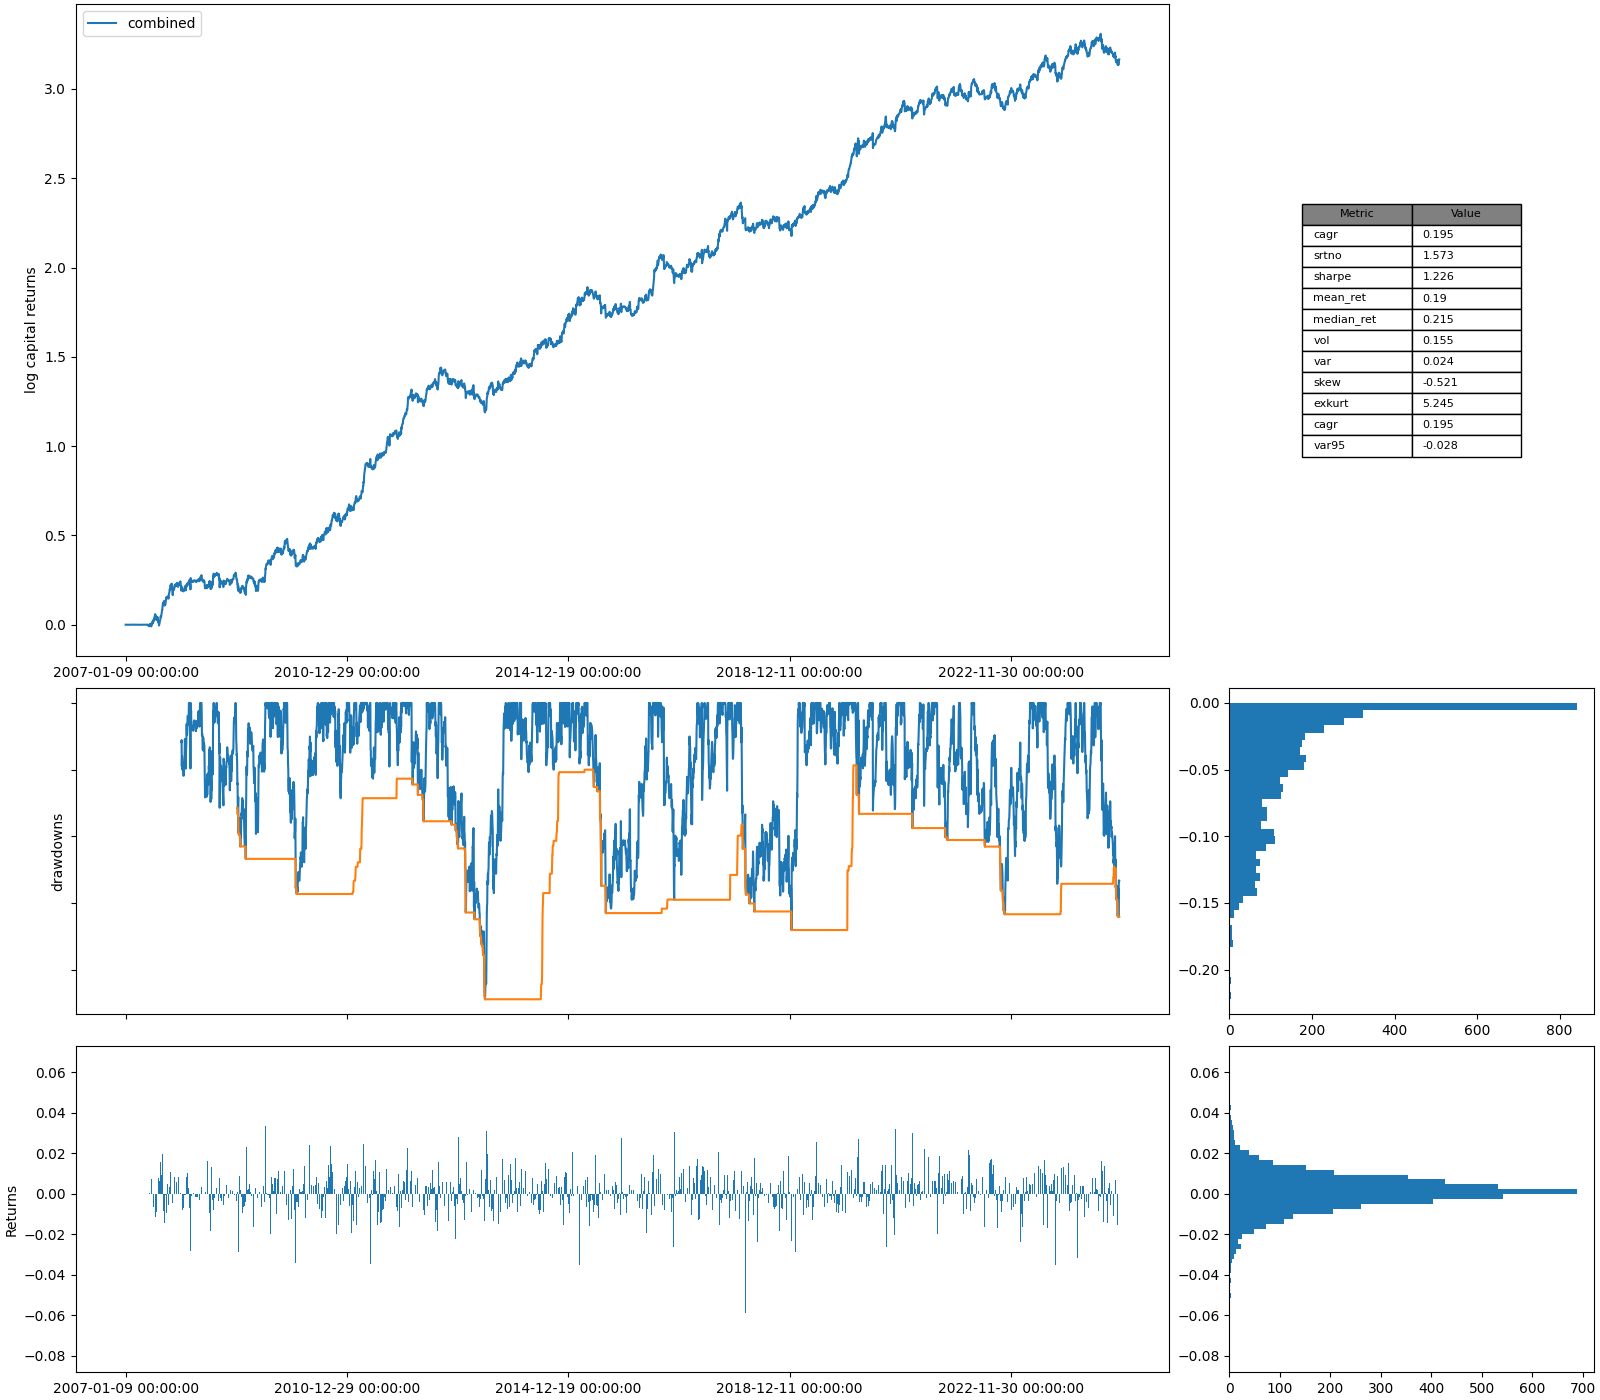
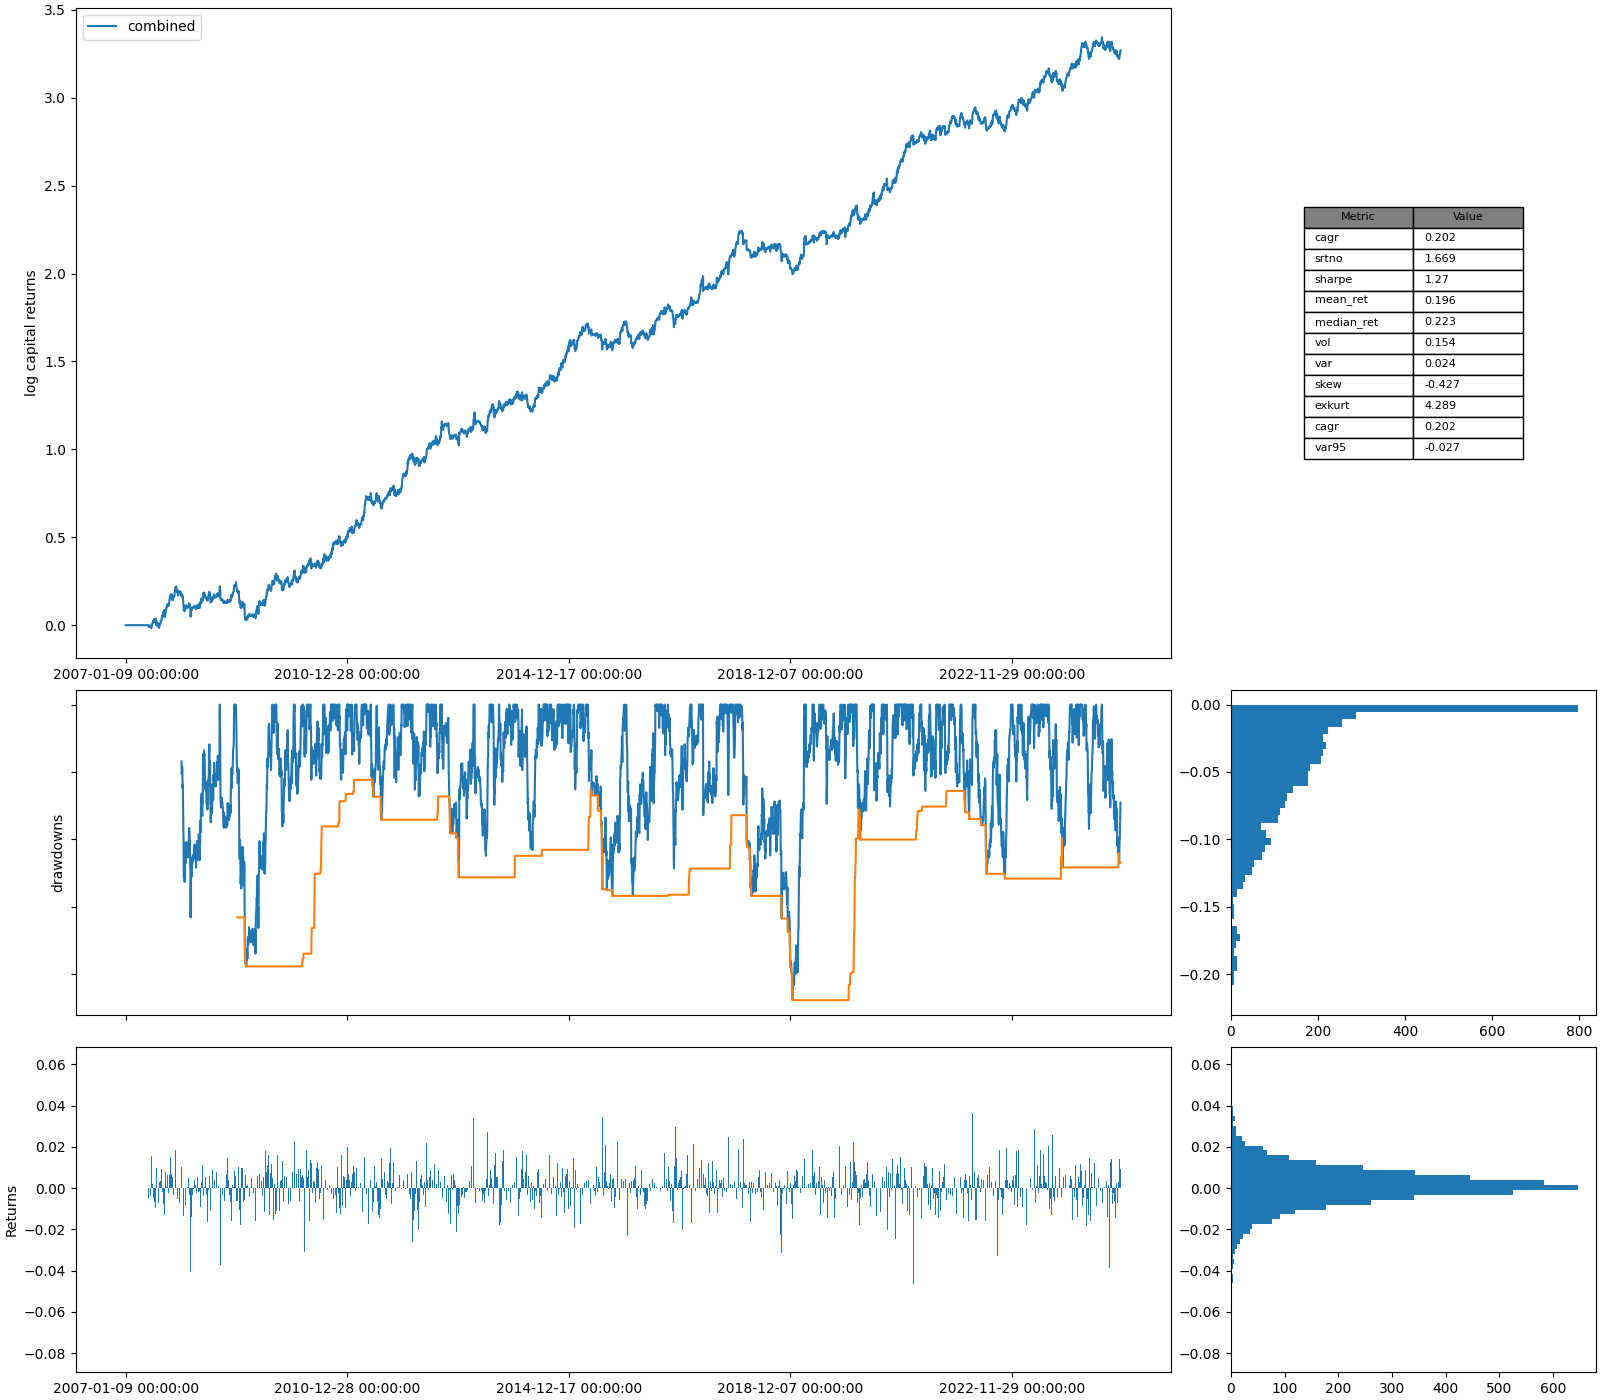
update on tickers on strat and portofolio opt strat

diff --git a/backtester/engine/functions/portfolio_strategies.py b/backtester/engine/functions/portfolio_strategies.py
@@ -8,31 +8,31 @@ from hmmlearn.hmm import GaussianHMM
 class PositioningStrategy(ABC):
     @abstractmethod
     def get_strat_positions(
-        self,
+       self,
         forecasts: np.ndarray,
-        eligibles_row: np.ndarray,
         capitals: float,
         strat_scalar: float,
         vol_row: np.ndarray,
-        close_row: np.ndarray
+        close_row: np.ndarray,
+        vol_target: float,
+        idx: int,
+        **kwargs
     ) -> np.ndarray:
         pass
 
 class VolatilityTargetingStrategy(PositioningStrategy):
     def get_strat_positions(
         self,
-        idx: int,
         forecasts: np.ndarray,
-        eligibles_row: np.ndarray,
         capitals: float,
         strat_scalar: float,
         vol_row: np.ndarray,
         close_row: np.ndarray,
         vol_target: float,
-        max_leverage: float,
-        min_leverage: float,
-        rets_df: dict[str, pd.DataFrame]
+        idx: int,
+        **kwargs
     ) -> np.ndarray:
+        max_leverage, min_leverage = kwargs["max_leverage"], kwargs["min_leverage"]
         forecast_chips = np.sum(np.abs(forecasts))
 
         if forecast_chips == 0:
@@ -53,14 +53,13 @@ class MeanVarianceStrategy(PositioningStrategy):
     def get_strat_positions(
         self,
         forecasts: np.ndarray,
-        eligibles_row: np.ndarray,
         capitals: float,
         strat_scalar: float,
         vol_row: np.ndarray,
         close_row: np.ndarray,
         vol_target: float,
-        max_leverage: float,
-        min_leverage: float
+        idx: int,
+        **kwargs
     ) -> np.ndarray:
         # Placeholder: Implement mean-variance optimization
         expected_returns = forecasts
@@ -79,26 +78,25 @@ class hmmMeanVarianceStrategy(PositioningStrategy):
     SEED = np.random.seed(1)
 
     def get_strat_positions(
-        self, 
-        idx: int,
-        forecasts: np.ndarray, 
-        eligibles_row: np.ndarray, 
-        capitals: float, 
-        strat_scalar: float, 
-        vol_row: np.ndarray, 
+        self,
+        forecasts: np.ndarray,
+        capitals: float,
+        strat_scalar: float,
+        vol_row: np.ndarray,
         close_row: np.ndarray,
         vol_target: float,
-        max_leverage: float,
-        min_leverage: float,
-        rets_df: dict[str, pd.DataFrame]
+        idx: int,
+        **kwargs
     ) -> np.ndarray:
+        retdf, max_leverage, trade_frequency = kwargs["retdf"], kwargs["max_leverage"], kwargs["trade_frequency"]
         if idx == 0:
-            train_rets, self.rets = self.get_rets(rets_df=rets_df)
-            self.model = self.train_hmm(train_rets=train_rets)
+            train_ret, self.ret = self.get_rets(retdf=retdf,trade_frequency=trade_frequency)
+            self.model = self.train_hmm(train_ret=train_ret)
             return np.zeros(len(forecasts))
-        state = self.predict_states(model=self.model, rets=self.rets[(idx - 1):idx,:])
-        state_covar = self.model.covars_[1-state]
-        state_mean = self.model.means_[1-state]
+        
+        state = self.predict_states(model=self.model, ret=self.ret[(idx - 1):idx,:])
+        state_covar = self.model.covars_[state]
+        state_mean = self.model.means_[state]
 
         forecast_chips = np.sum(np.abs(forecasts))
         expected_returns = state_mean * (forecasts / forecast_chips)
@@ -124,19 +122,22 @@ class hmmMeanVarianceStrategy(PositioningStrategy):
             / (vol_row * close_row)
         return np.floor(positions)
     
-    def train_hmm(self, train_rets: np.ndarray):
+    def train_hmm(self, train_ret: np.ndarray):
         model = self.MODEL(
             n_components=2,
             covariance_type="full",
             algorithm="map",
             random_state=self.SEED
         )
-        return model.fit(X=train_rets)
+        return model.fit(X=train_ret)
 
-    def predict_states(self, model: GaussianHMM, rets: np.ndarray) -> np.ndarray:
-        return model.predict(X=rets)[0]
+    def predict_states(self, model: GaussianHMM, ret: np.ndarray) -> np.ndarray:
+        return model.predict(X=ret)[0]
 
-    def get_rets(self, rets_df: pd.DataFrame) -> tuple[np.ndarray, np.ndarray]:
-        n = int(len(rets_df) * self.TRAIN_SIZE)
-        rets = rets_df.shift(1).fillna(0).values # shift 1 lag to avoid lookahead bias
-        return rets[:n,:], rets
+    def get_rets(self, retdf: pd.DataFrame, trade_frequency: str) -> tuple[np.ndarray, np.ndarray]:
+        if trade_frequency == "weekly": wind = 7
+        if trade_frequency == "montlhhy": wind = 30
+        if trade_frequency == "daily": wind = 0
+        n = int(len(retdf) * self.TRAIN_SIZE)
+        ret = retdf.shift(1).rolling(wind).mean().fillna(0).values # shift 1 lag to avoid lookahead bias
+        return ret[:n,:], ret

diff --git a/backtester/engine/simulation_engine.py b/backtester/engine/simulation_engine.py
@@ -19,7 +19,8 @@ from .functions.performance import (
 from .functions.portfolio_strategies import(
     PositioningStrategy,
     MeanVarianceStrategy,
-    VolatilityTargetingStrategy
+    VolatilityTargetingStrategy,
+    hmmMeanVarianceStrategy
 )
 # from .database.constants import STRAT_PATH
 
@@ -371,27 +372,28 @@ class BacktestEngine(TradingFrequencyCalculator):
     def get_strat_positions(
             self,
             forecasts: np.ndarray,
-            eligibles_row: np.ndarray,
             capitals: float,
             strat_scalar: float,
             vol_row: np.ndarray,
             close_row: np.ndarray,
             vol_target: float,
-            idx: int
+            idx: int,
+            **kwargs
         ) -> np.ndarray:
-        return self.portf_strategy.get_strat_positions(
-            forecasts=forecasts,
-            eligibles_row=eligibles_row,
-            capitals=capitals,
-            strat_scalar=strat_scalar,
-            vol_row=vol_row,
-            close_row=close_row,
-            vol_target=vol_target,
-            max_leverage=self.max_leverage,
-            min_leverage=self.min_leverage,
-            rets_df=self.retdf,
-            idx=idx
-        )
+        """
+        Delegates to the strategy's `get_strat_positions` method.
+
+        Parameters
+        ----------
+        kwargs : dict
+            Dynamic arguments for position calculation.
+
+        Returns
+        -------
+        np.ndarray
+            Array of calculated positions.
+        """
+        return self.portf_strategy.get_strat_positions(forecasts,capitals,strat_scalar,vol_row,close_row,vol_target,idx,**kwargs)
 
     def get_positions(
             self,
@@ -405,6 +407,7 @@ class BacktestEngine(TradingFrequencyCalculator):
             use_vol_target: bool,
             trading_day: bool,
             idx: int,
+            **kwargs
         ):
         with np.errstate(invalid="ignore", divide="ignore"):
             forecasts = forecasts / eligibles_row
@@ -416,13 +419,13 @@ class BacktestEngine(TradingFrequencyCalculator):
                 if use_vol_target:
                     positions = self.get_strat_positions(
                         forecasts=forecasts,
-                        eligibles_row=eligibles_row,
                         capitals=capitals,
                         strat_scalar=strat_scalar,
                         vol_row=vol_row,
                         close_row=close_row,
                         vol_target=vol_target,
-                        idx=idx
+                        idx=idx,
+                        **(kwargs or {})
                     )
                 
                 else:
@@ -518,6 +521,17 @@ class BacktestEngine(TradingFrequencyCalculator):
                 ret_i
             )
             if type(forecasts) == pd.Series: forecasts = forecasts.values
+            if isinstance(self.portf_strategy, hmmMeanVarianceStrategy):
+                kwargs = {
+                    "max_leverage": self.max_leverage,
+                    "retdf": self.retdf,
+                    "trade_frequency": self.trade_frequency
+                }
+            if isinstance(self.portf_strategy, VolatilityTargetingStrategy):
+                kwargs = {
+                    "max_leverage": self.max_leverage,
+                    "min_leverage": self.min_leverage
+                }
 
             positions, weights, nominal_tot = self.get_positions(
                 forecasts=forecasts,
@@ -530,6 +544,7 @@ class BacktestEngine(TradingFrequencyCalculator):
                 use_vol_target=use_vol_target,
                 trading_day=trading_day,
                 idx=portfolio_i,
+                **kwargs
             )
             units_held.append(positions)
             weights_held.append(weights)

diff --git a/main.py b/main.py
@@ -19,7 +19,7 @@ def vol_carry_main():
     return strategy
 
 def tactical_main():
-    TICKERS = ["SPY", "QQQ", "TLT", "GLD"]
+    TICKERS = ["QLD", "GLD", "TLT", "XLE", "DBC", "DBA", "VEU", "XLP", "IYH", "XBI", "VNQ", "GBTC", "SHY", "UUP"]
 
     db = finance_database(database_name="etf_db")
     db.import_to_database(tickers=TICKERS)
@@ -33,7 +33,7 @@ if __name__ == "__main__":
     tactical_strat = tactical_main()
     tactical_strat.run_simulation(use_vol_target=True)
     tactical_strat.get_perf_stats(plot=True,show=False,strat_name="tactical_strategy",compare=False)
-
+     
     vol_carry_strat = vol_carry_main()
     vol_carry_strat.run_simulation(use_vol_target=False)
     vol_carry_strat.get_perf_stats(plot=True,show=False,strat_name="vol_carry_strategy",compare=False)
